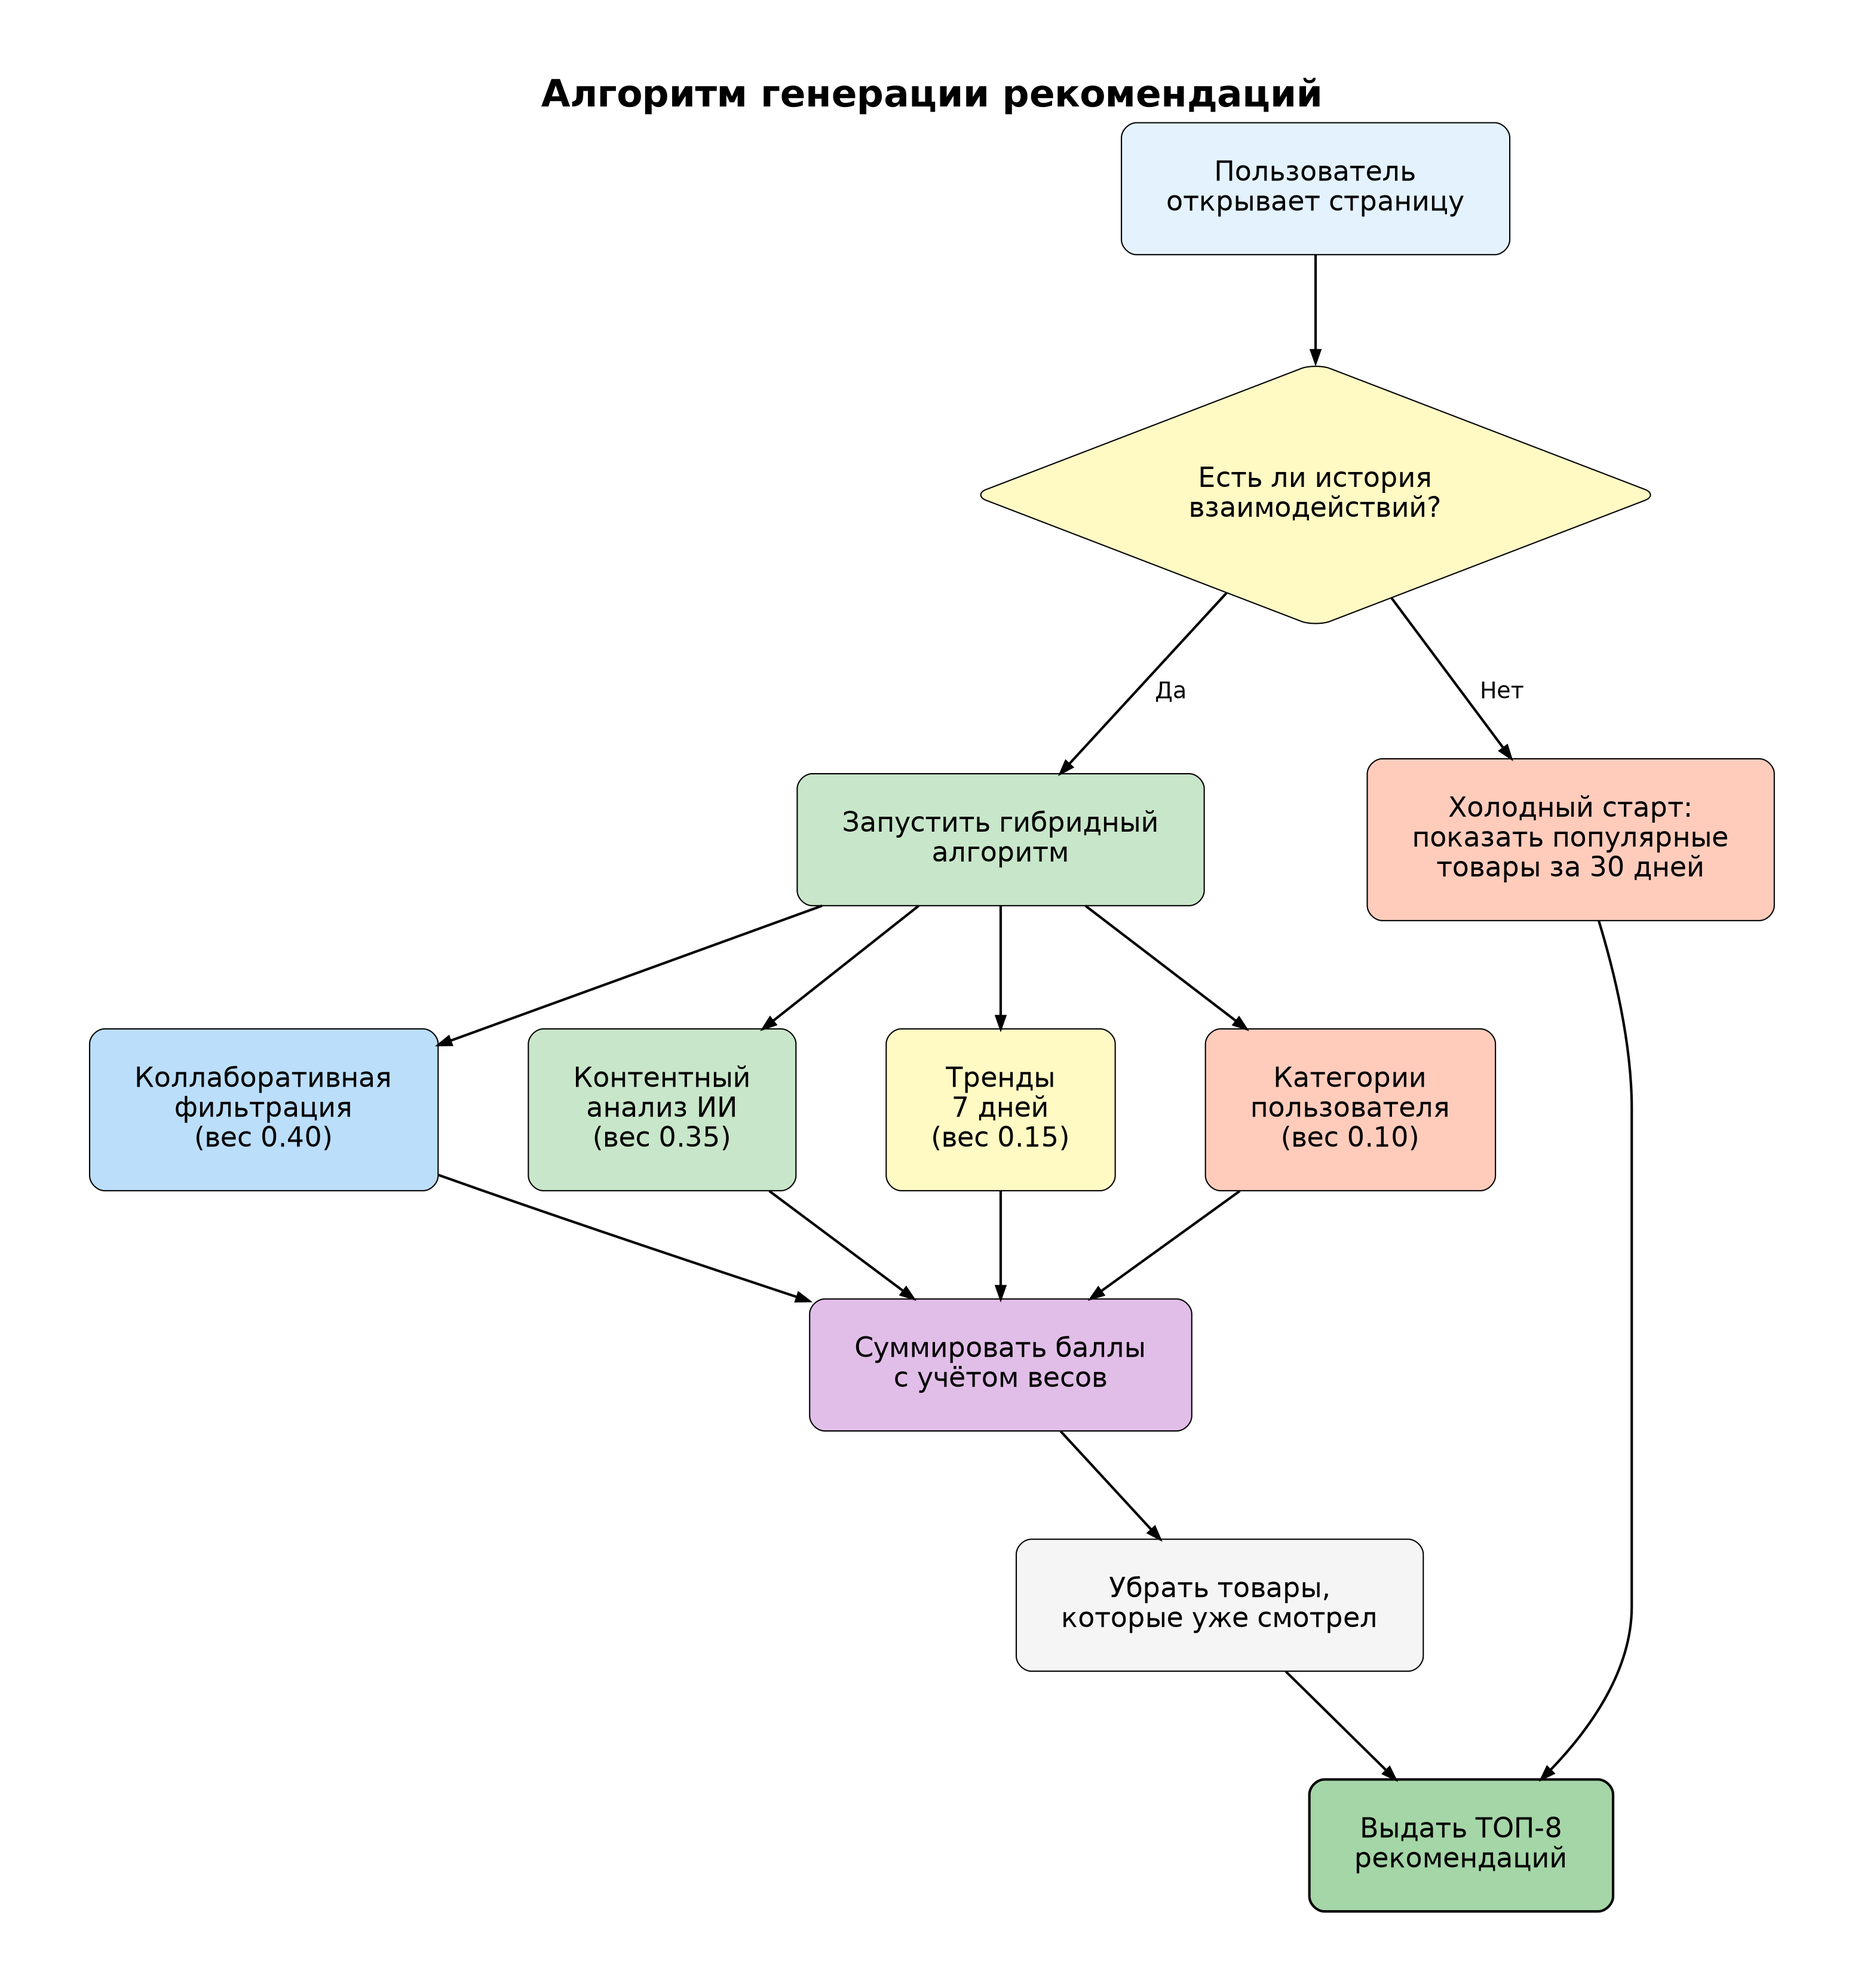
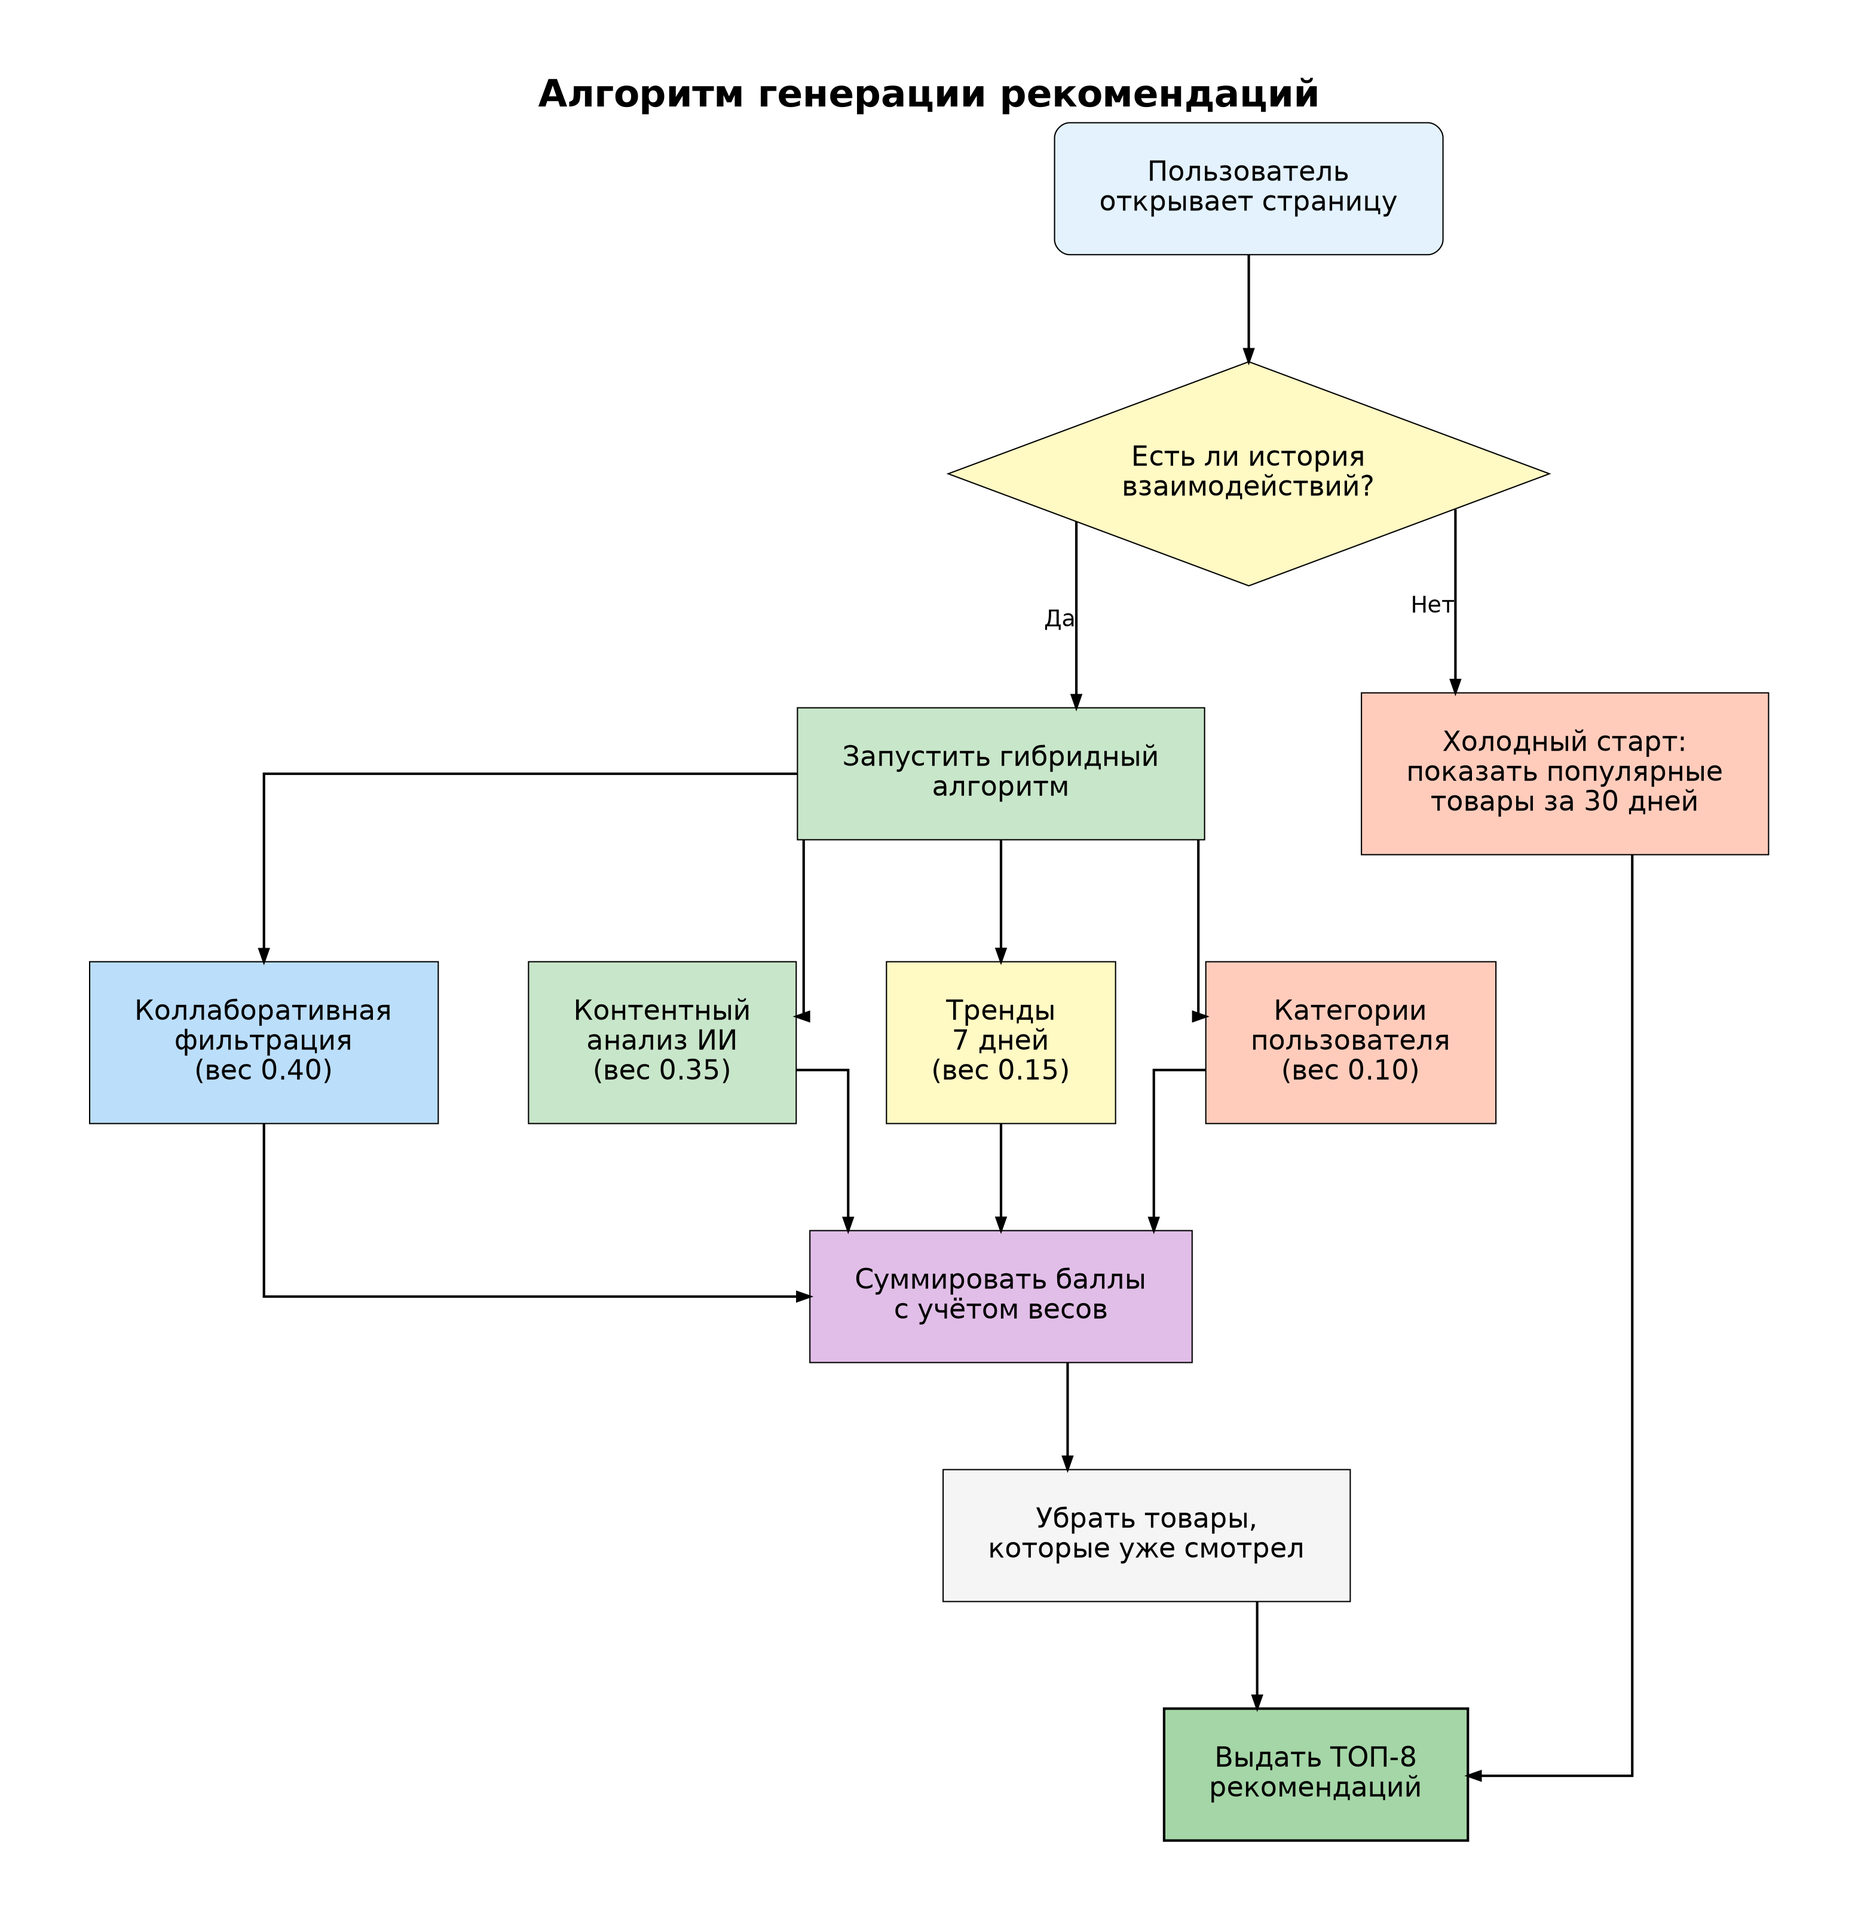
Diagram 03: orthogonal (90°) lines and proper flowchart shapes per supervisor sketch

diff --git a/diplomnaya-rabota/revised-diagrams-drawio/generate_drawio.py b/diplomnaya-rabota/revised-diagrams-drawio/generate_drawio.py
@@ -203,15 +203,16 @@ def diagram_03_algorithm_flowchart():
         nodesep=1.0;
         ranksep=1.2;
         pad="1.0,0.8";
-        node [shape=box, style="filled,rounded", fontname="DejaVu Sans", fontsize=22, margin="0.5,0.4"];
+        splines=ortho;
+        node [shape=box, style="filled", fontname="DejaVu Sans", fontsize=22, margin="0.5,0.4"];
         edge [fontname="DejaVu Sans", fontsize=18, penwidth=2.0];
         
         graph [label="Алгоритм генерации рекомендаций", 
                labelloc=t, fontsize=30, fontname="DejaVu Sans Bold",
                ordering=out];
         
-        start [label="Пользователь\\nоткрывает страницу", fillcolor="#E3F2FD"];
-        check [label="Есть ли история\\nвзаимодействий?", shape=diamond, fillcolor="#FFF9C4", ordering=out];
+        start [label="Пользователь\\nоткрывает страницу", fillcolor="#E3F2FD", style="filled,rounded"];
+        check [label="Есть ли история\\nвзаимодействий?", shape=diamond, fillcolor="#FFF9C4", width=4, height=2.5, ordering=out];
         hybrid [label="Запустить гибридный\\nалгоритм", fillcolor="#C8E6C9"];
         cold [label="Холодный старт:\\nпоказать популярные\\nтовары за 30 дней", fillcolor="#FFCCBC"];
         
@@ -222,7 +223,7 @@ def diagram_03_algorithm_flowchart():
         
         sum [label="Суммировать баллы\\nс учётом весов", fillcolor="#E1BEE7"];
         filter [label="Убрать товары,\\nкоторые уже смотрел", fillcolor="#F5F5F5"];
-        result [label="Выдать ТОП-8\\nрекомендаций", fillcolor="#A5D6A7", style="filled,rounded,bold"];
+        result [label="Выдать ТОП-8\\nрекомендаций", fillcolor="#A5D6A7", style="filled,bold"];
         
         /* Layout: Да (main flow) on LEFT, Нет (cold start) on RIGHT */
         { rank=same; hybrid; cold; }
@@ -230,8 +231,8 @@ def diagram_03_algorithm_flowchart():
         
         start -> check;
         /* Да edge FIRST = placed LEFT */
-        check -> hybrid [label="  Да"];
-        check -> cold [label="  Нет"];
+        check -> hybrid [xlabel="Да"];
+        check -> cold [xlabel="Нет"];
         hybrid -> cf;
         hybrid -> cb;
         hybrid -> trend;
